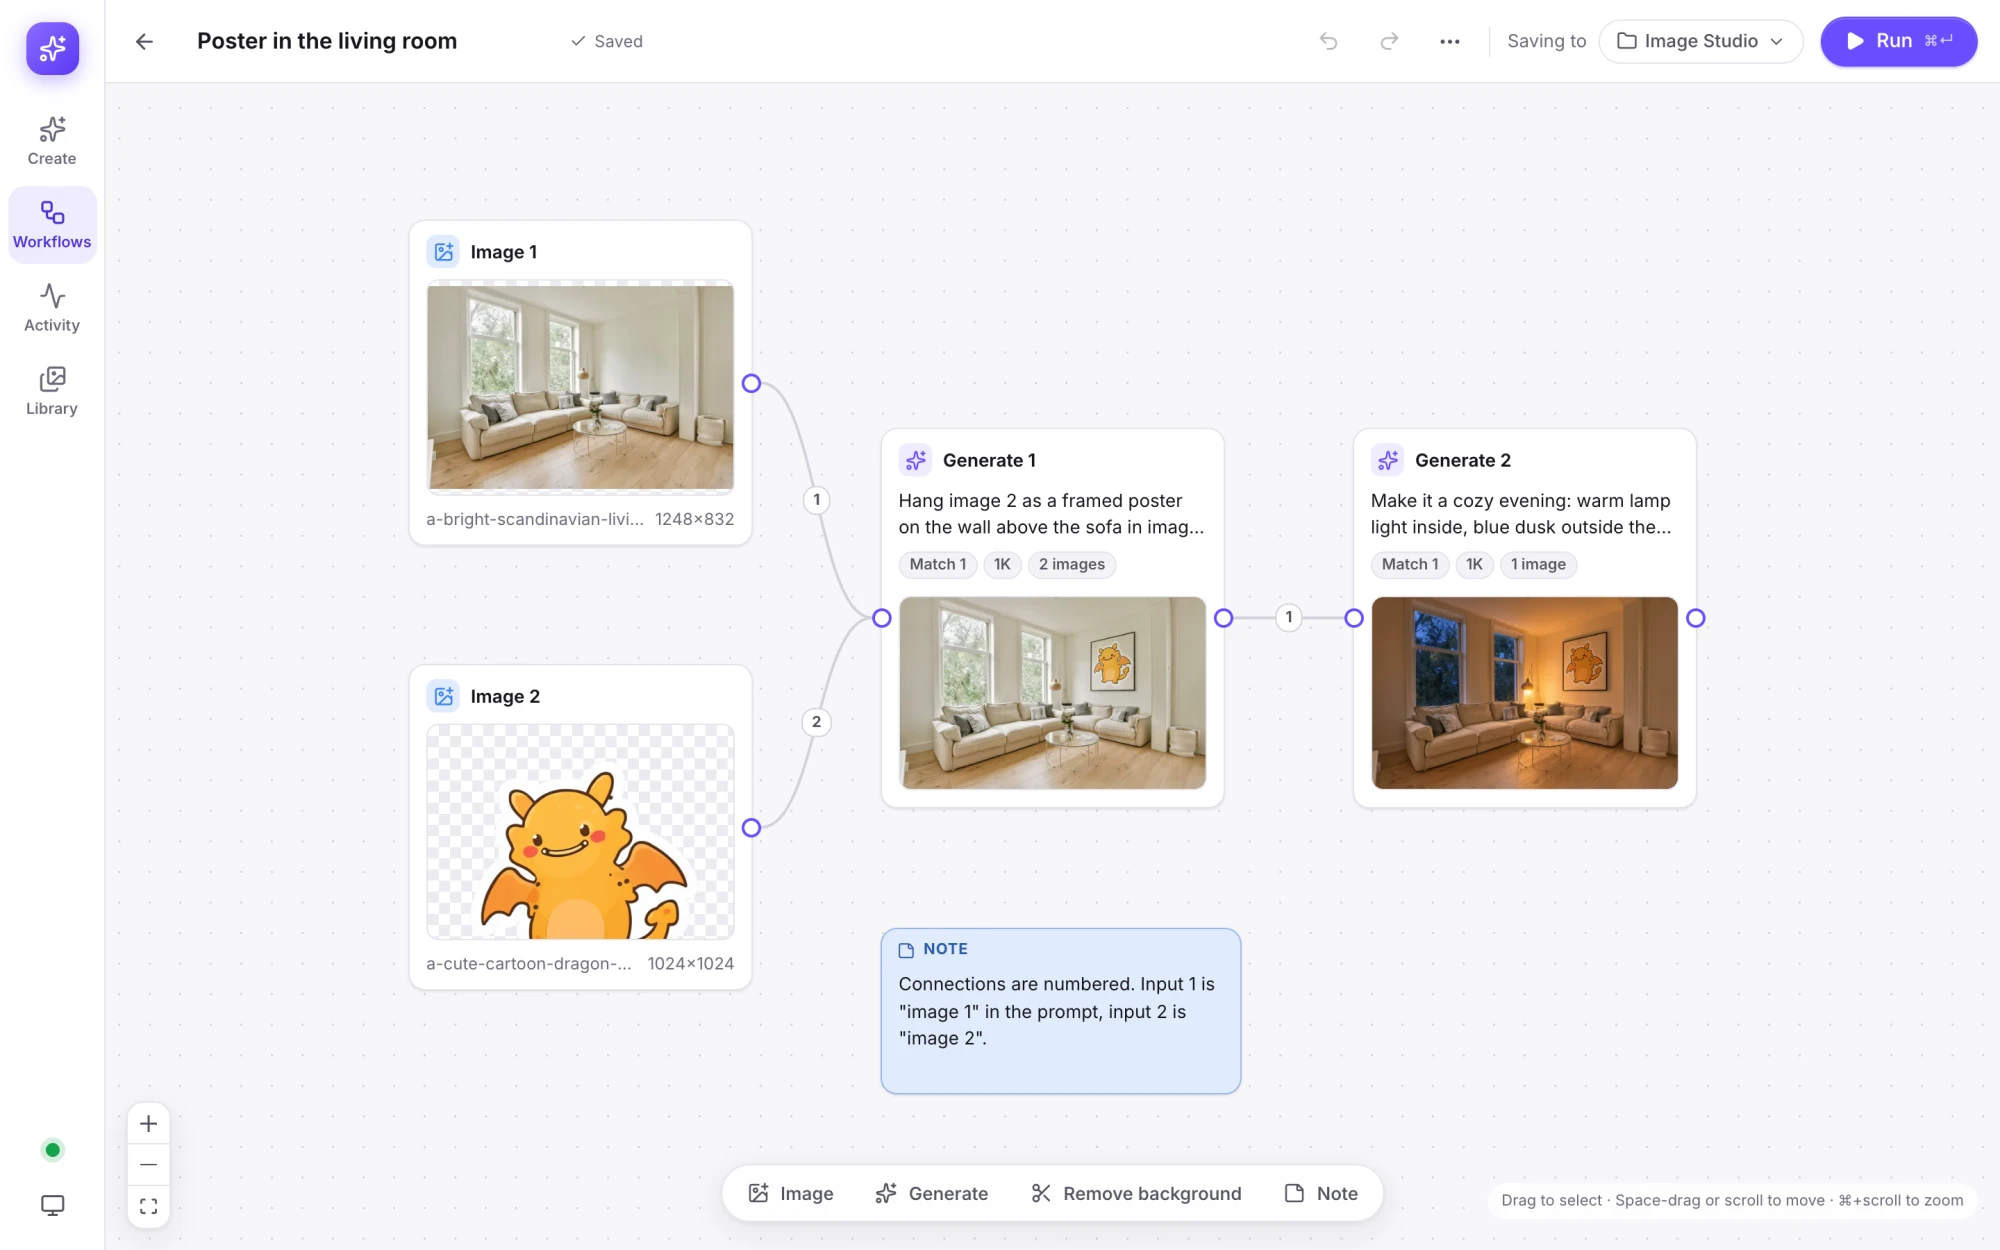
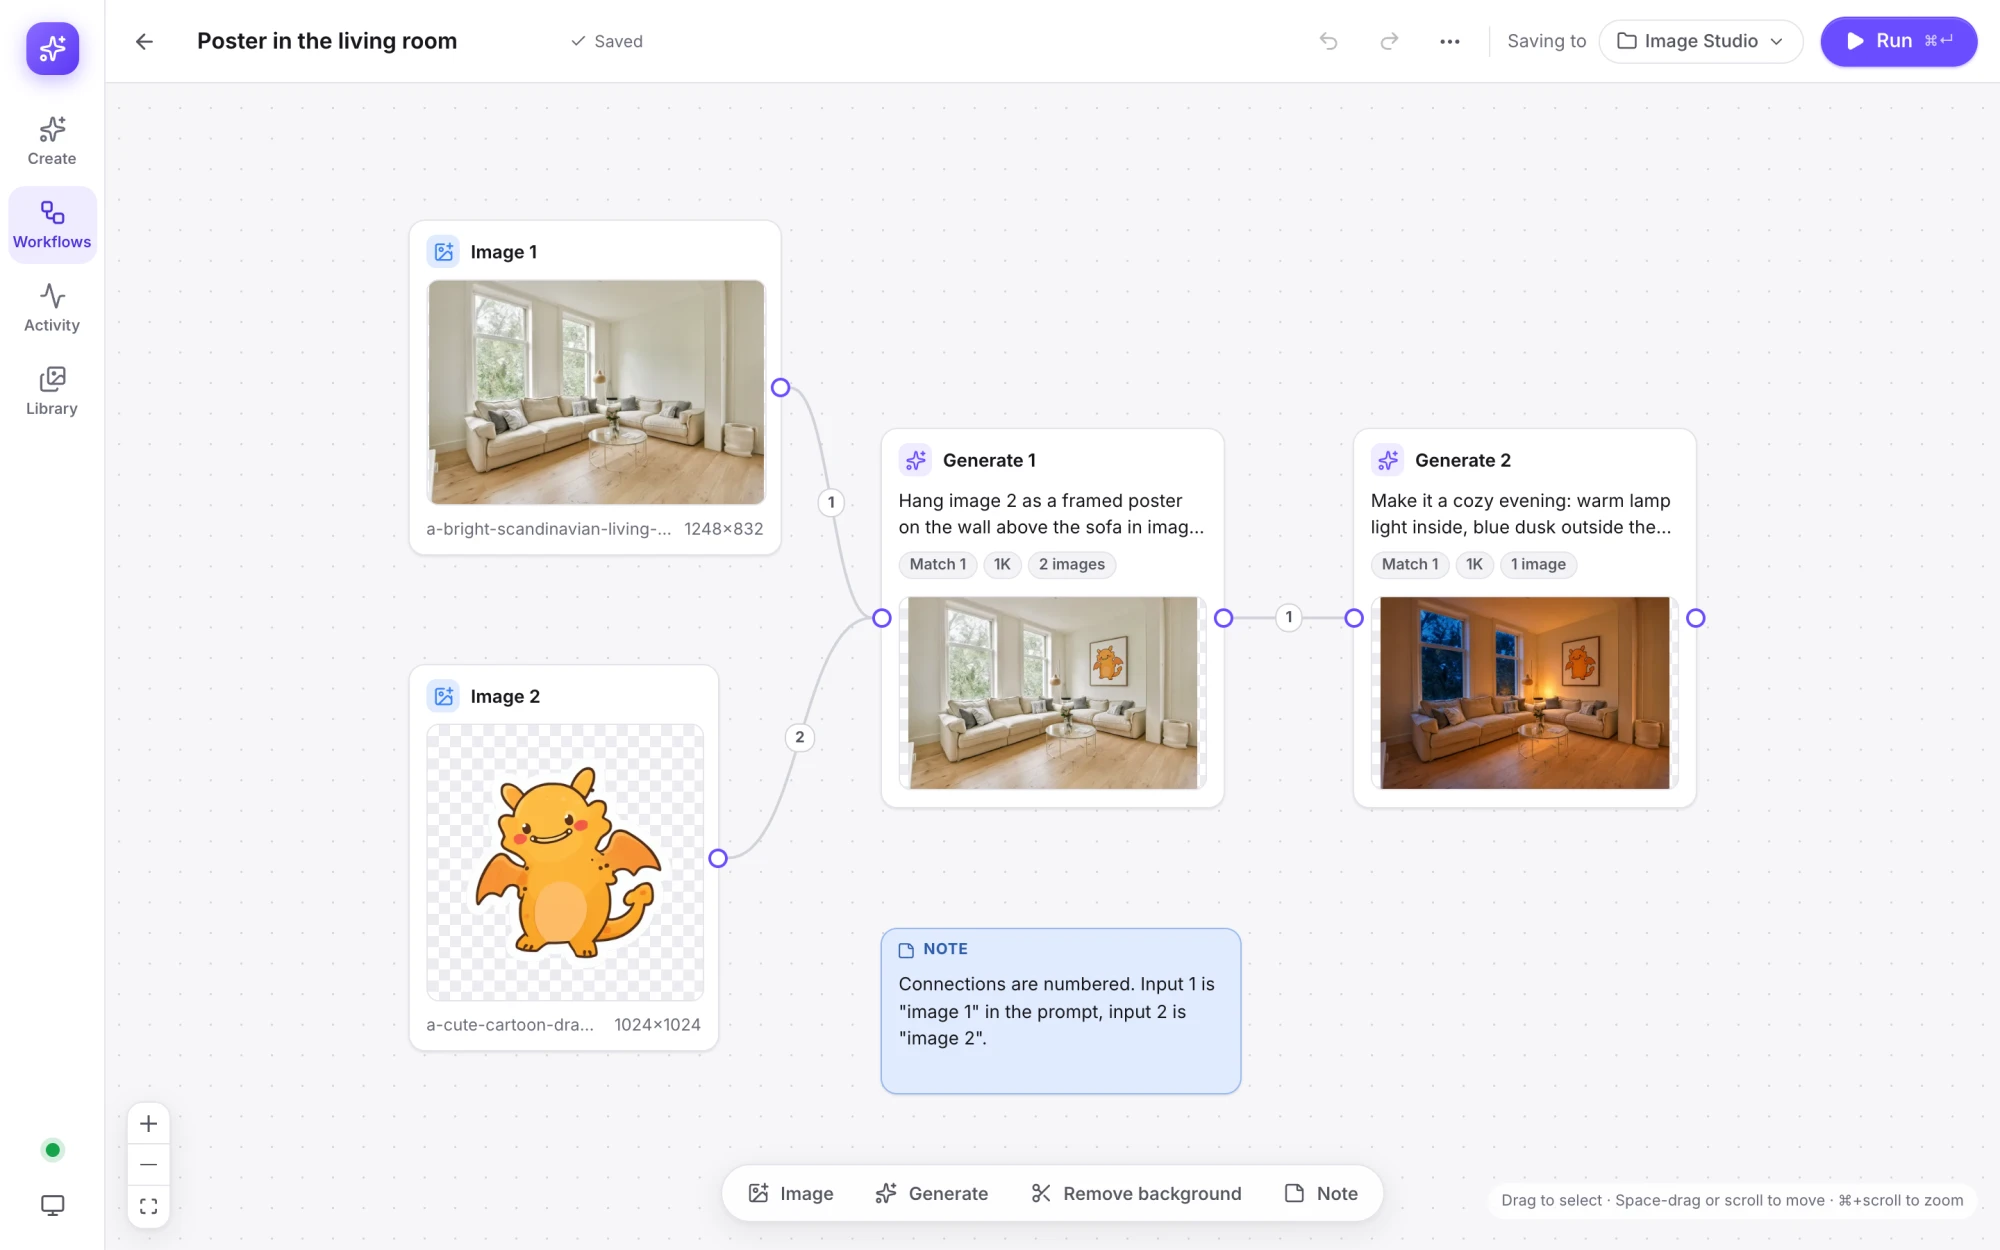
Docs: transparency rule, image-shaped Image nodes, refreshed screenshots

diff --git a/docs/product.md b/docs/product.md
@@ -42,7 +42,7 @@ The row under the prompt holds the options you change most:
 | Aspect ratio | 1:1, 4:3, 3:4, 3:2, 2:3, 16:9, 9:16, and **Match image 1** when images are attached |
 | Size | **1K** (about 1 megapixel) or **2K** (2048 × 2048 at 1:1) |
 | Variations | ×1 to ×4 |
-| **Transparent** | Makes a PNG with a transparent background |
+| **Transparent** | Makes a PNG with a transparent background. It turns on by itself when image 1 is transparent. |
 
 The sliders button opens **More settings**:
 
@@ -59,6 +59,8 @@ The sliders button opens **More settings**:
 | Reference detail | With images attached: how much detail the model reads from them. Standard, High (2K) or Original size. |
 
 When any of these differs from its default, **Reset to defaults** appears at the bottom and puts them back. The app remembers your settings and save folder in this browser.
+
+Only a result made with **Transparent** on keeps transparency. With it off, transparent input images are flattened onto white first, so the result is a complete picture. That is what you want when you place a cut-out subject into a new scene.
 
 ### Improve a prompt
 
@@ -86,7 +88,7 @@ The toolbar at the bottom of the canvas adds nodes:
 
 | Node | What it does | Inputs |
 |---|---|---|
-| **Image** | A picture from your Mac. **Replace image** and **Mark area** are in its settings. | None |
+| **Image** | A picture from your Mac. The card takes the picture's shape, and clicking the picture shows it full size. **Replace image** and **Mark area** are in its settings. | None |
 | **Generate** | Makes images from a prompt and the images connected to it | Up to 10 |
 | **Remove background** | Cuts out the subject of one image | Exactly 1 |
 | **Note** | A sticky note in yellow, blue, green, pink or gray. Drag its corner to resize it. | None |
@@ -105,6 +107,8 @@ Click a node to open its settings on the right. A Generate node has the same pro
 - the order of its inputs, which you can drag to change,
 - **Auto-improve**, which runs Improve with the node's actual input images when the node starts, after the steps before it finish, and
 - **Save to**, a folder for this node's results.
+
+A Generate node keeps its own **Transparent** setting. Unlike Create, it doesn't switch on by itself.
 
 ![The settings panel of Generate 1: its prompt, its two input images in order, options, Auto-improve and Save to](images/node-panel.webp)
 

diff --git a/docs/architecture.md b/docs/architecture.md
@@ -83,6 +83,7 @@ Details that matter when you read the code:
 - **A node's inputs are ordered.** Image 1 is the first input. When an upstream node makes several variations, the next node receives the first one.
 - **A failed node skips everything downstream of it.** Other branches of the same graph still finish.
 - **Prompts are rewritten before they reach the model.** "image 2", "img 2" and "picture 2" become `<image2>` when that input exists. A Transparent request wraps the prompt in the model's official RGBA wording.
+- **Only a Transparent result keeps alpha.** When Transparent is off, the executor flattens transparent inputs onto white before the engine sees them, because image 1 is the canvas and its empty areas would stay see-through. Remove background always keeps alpha.
 - **Remove background uses the same image model** with the prompt "Remove the background, and output a PNG image". It needs no extra model.
 - **If the engine is offline,** jobs wait and try again every 3 seconds. After a restart of the API server, runs that were queued or running end with "Interrupted by an app restart".
 - **After 10 idle minutes** the executor asks the engine to unload its models (`POST /free`), which frees the memory they use. On an M5 Max the engine went from 38 GB to 1.3 GB. A server you run yourself reads the delay from `STUDIO_IDLE_MINUTES`, where `0` turns it off. Docker Compose doesn't pass that variable, so the app in Docker always uses 10 minutes.

diff --git a/docs/api.md b/docs/api.md
@@ -55,7 +55,7 @@ curl -s "http://127.0.0.1:4747/api/runs/$run" \
 | `size` | `1k`, `2k` | `1k` | About 1 megapixel, or 2048 × 2048 at 1:1 |
 | `quality` | `fast`, `standard`, `best` | `standard` | 16, 28 or 40 sampling steps |
 | `count` | 1 to 4 | `1` | Number of variations |
-| `transparent` | boolean | `false` | Ask for a PNG with a transparent background |
+| `transparent` | boolean | `false` | Ask for a PNG with a transparent background. When `false`, transparent input images are flattened onto white and the result is opaque. |
 | `folder` | path or `null` | `null` | Where to save. `null` uses the default folder. |
 | `advanced.seed` | integer or `null` | `null` | `null` picks a random seed |
 | `advanced.negative` | string | `""` | What to avoid |
